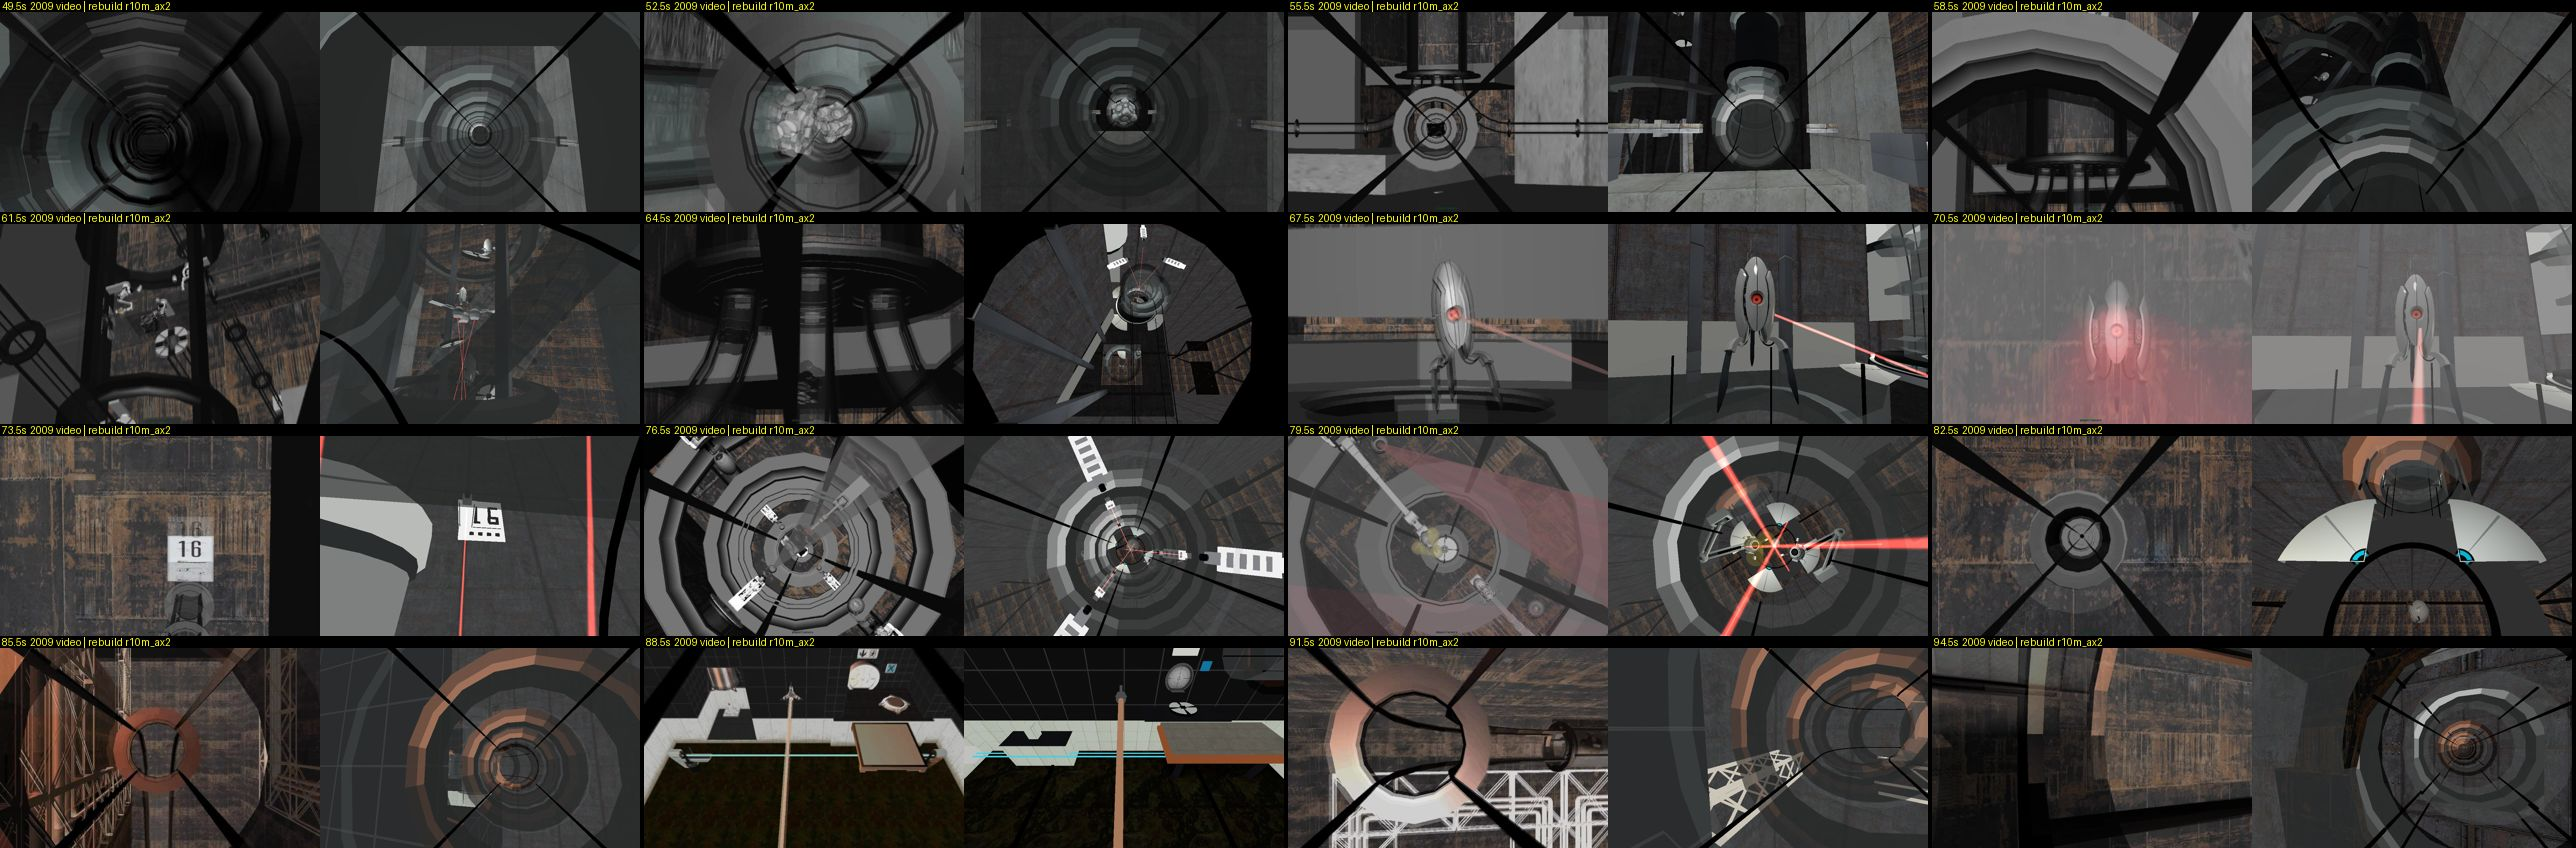
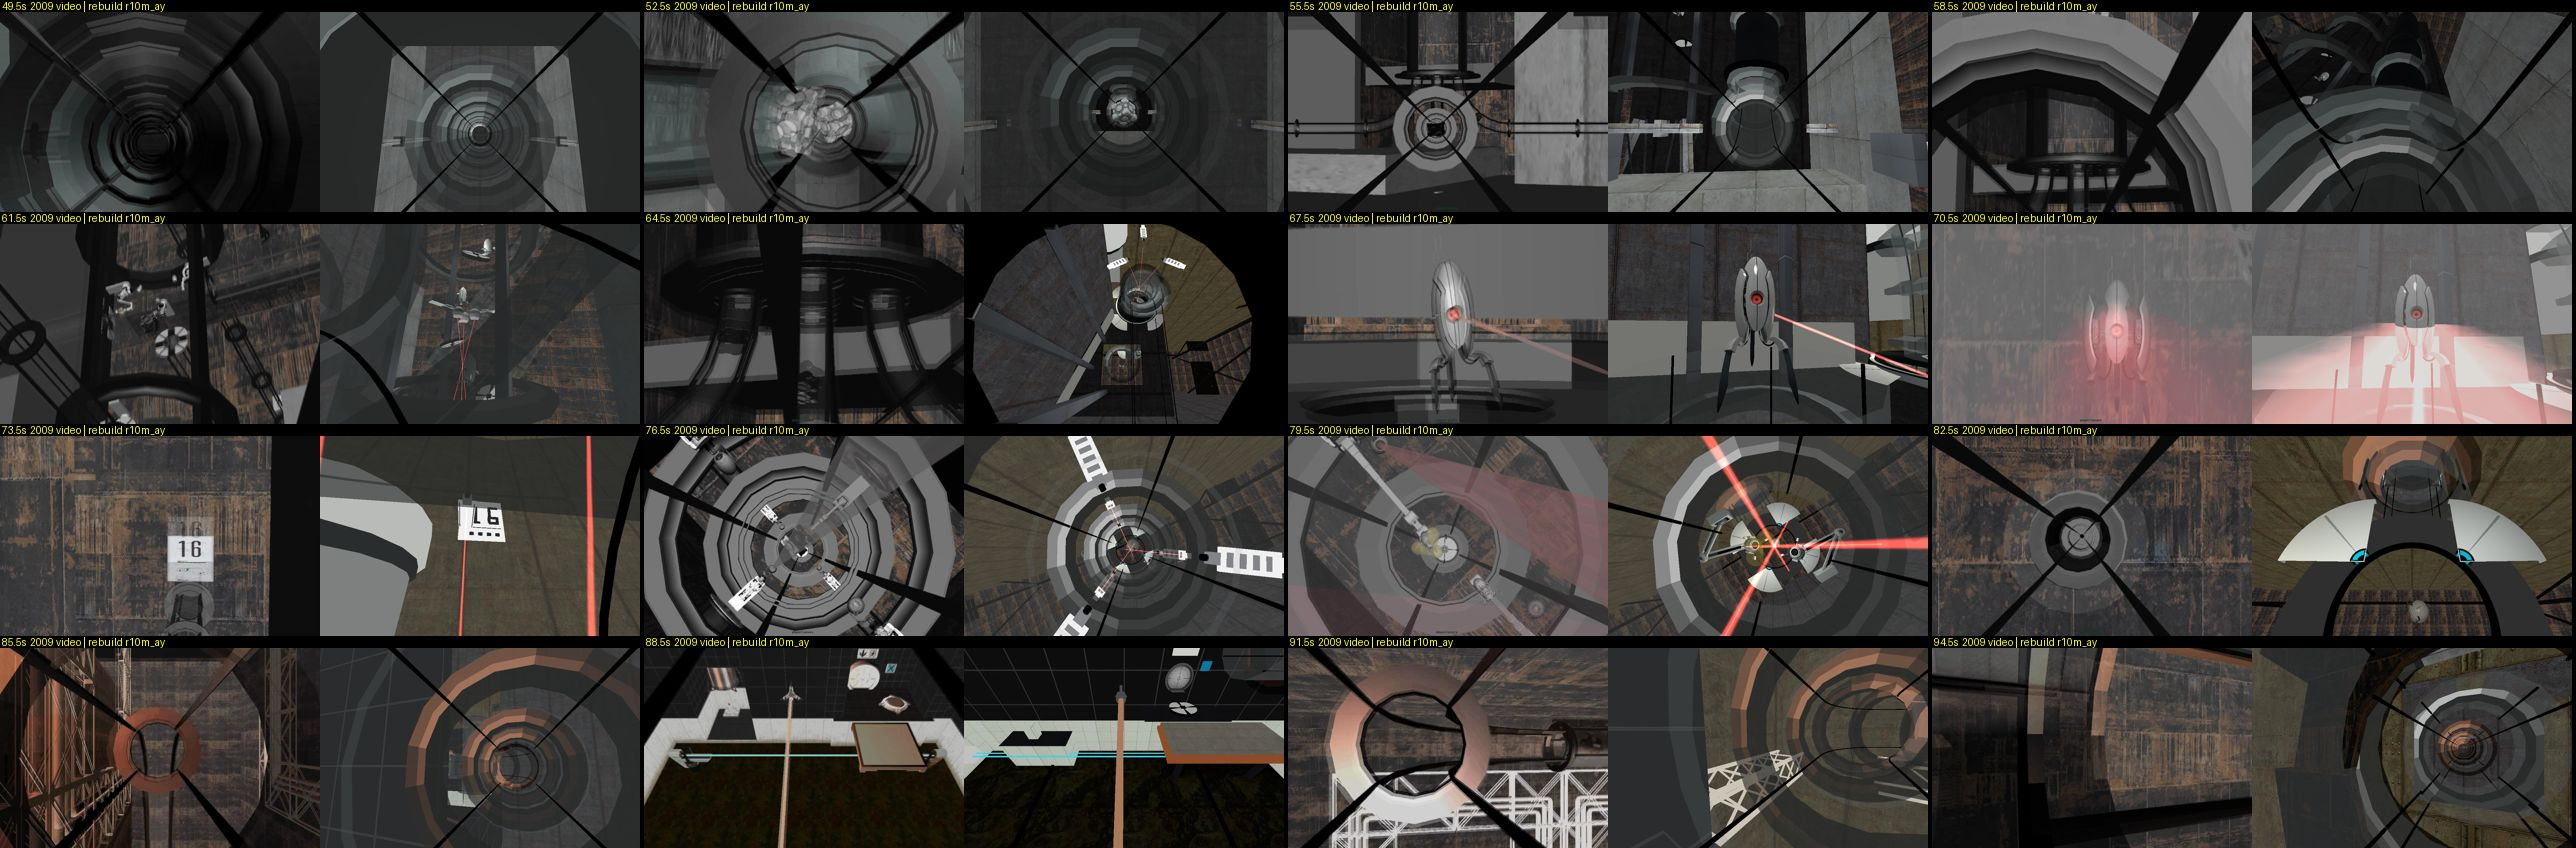
Corehub intro rebuild (corehub_r10ay + director_r10ay)
Separated middle rooms, frontal walls, WIP surfaces, 60 fps test runs; see corehub/intro/README.md for per-scene scores.

Claude-Session: https://claude.ai/code/session_014AMsH7FRGKMAJSenMpS1Ga

Changed region(s): [[0.8696, 0.3679, 1.0, 0.5212]]

diff --git a/corehub/intro/tools/patch_director.py b/corehub/intro/tools/patch_director.py
@@ -26,7 +26,7 @@ edits = {  # time: (pitch, yaw, roll)
     # the floor ring (65-65.6 s), and watches the turret rise toward the lens (66-67 s)
     63.25: (25.0, 10.0, 0.0), 63.5: (38.0, 5.0, 0.0), 63.75: (43.0, 4.0, 0.0), 64.0: (48.0, 3.0, 0.0), 64.25: (55.0, 2.0, 0.0), 64.5: (65.0, 0.0, 0.0),
     64.75: (75.0, 0.0, 0.0), 65.0: (85.0, 10.0, 0.0), 65.5: (88.0, 20.0, 0.0), 66.0: (85.0, 30.0, 0.0),
-    66.5: (45.0, 45.0, 0.0), 67.0: (0.0, 46.0, 0.0),
+    66.25: (55.0, 40.0, 0.0), 66.5: (12.0, 46.0, 0.0), 67.0: (0.0, 46.0, 0.0),   # r10ay: level with the rising turret by 66.5 s (video)
     # r10af: the video holds the turret front-on and centred through the lens glare (69.5-71.2 s), the camera rising
     # only slightly; it leaves for the "16" inlet in the last 0.8 s (see pos_x/pos_z)
     70.5: (-9.0, 63.0, 0.0), 71.0: (-8.0, 62.0, 0.0), 71.25: (-7.0, 40.0, 0.0), 71.5: (-8.0, 12.0, 0.0),
@@ -91,7 +91,7 @@ funnel = {86.0: (5770.0, 0.0, 280.0), 86.25: (5880.0, 80.0, 505.0), 86.5: (5950.
           87.0: (5952.0, 150.0, 320.0), 87.25: (5952.0, 180.0, 275.0), 87.5: (5952.0, 210.0, 256.0)}
 copper_x = [(84.2, 5240.0), (84.55, 5260.0), (85.0, 5330.0), (85.5, 5450.0), (85.75, 5600.0), (86.0, 5770.0)]   # r10am: the room west of the towers is dark; start at them
 pod_z = [(39.5, 640.0), (39.75, 660.0), (40.0, 680.0), (40.25, 700.0), (40.5, 720.0), (40.75, 745.0), (41.0, 770.0), (41.25, 810.0), (41.5, 880.0), (41.75, 1000.0)]
-shaft_z = [(77.0, 835.0), (78.0, 790.0), (79.0, 720.0), (79.5, 660.0), (80.0, 590.0), (80.5, 545.0), (81.0, 540.0), (81.5, 540.0), (82.0, 540.0), (82.25, 520.0), (82.5, 400.0)]   # r10ao: hover over the iris until 82.2 s, then drop through it
+shaft_z = [(77.0, 835.0), (78.0, 790.0), (79.0, 720.0), (79.5, 660.0), (80.0, 610.0), (80.5, 590.0), (81.0, 580.0), (81.5, 580.0), (82.0, 580.0), (82.25, 540.0), (82.5, 400.0)]   # r10az: hover higher over the iris (video 81-82 s: the iris ~45% of the frame width)   # r10ao: hover over the iris until 82.2 s, then drop through it
 # r10ah: sludge chamber (87-90 s) -- the video is lower and closer over the walkways than the tube (z 256)
 sludge_z = {86.5: 246.0, 86.75: 226.0, 87.0: 206.0, 87.25: 192.0, 87.5: 186.0, 87.75: 186.0, 88.0: 186.0, 88.25: 186.0,
             88.5: 186.0, 88.75: 186.0, 89.0: 186.0, 89.25: 186.0, 89.5: 188.0, 89.75: 196.0, 90.0: 210.0, 90.25: 232.0, 90.5: 250.0}
@@ -154,15 +154,16 @@ cube_new = 'for(local i=0;i<4;i++)MoveProp("intro_cube_"+i,(t<54.9&&t>=51.5)?Vec
 assert txt.count(cube_old) == 1
 txt = txt.replace(cube_old, cube_new)
 txt = txt.replace('cutTab <- [', 'r10CubeX <- [[51,3420],[52,3394],[52.5,3437],[52.54,3437],[52.56,3295],[53.0,3339],[53.5,3386],[53.83,3418],[55.5,3480]];' + chr(10) + 'cutTab <- [', 1)
-txt = txt.replace('cutTab <- [', 'r10TurretZ <- [[66.15,820],[66.9,1010]];r10GlowPath <- [[114.0,Vector(8425,61,900)],[114.5,Vector(8454,28,740)],[115.1,Vector(8448,0,600)],[116.4,Vector(8436,-24,640)]];' + chr(10) + 'cutTab <- [', 1)
+txt = txt.replace('cutTab <- [', 'r10TurretZ <- [[65.9,820],[66.45,1010]];r10GlowPath <- [[114.0,Vector(8425,61,900)],[114.5,Vector(8454,28,740)],[115.1,Vector(8448,0,600)],[116.4,Vector(8436,-24,640)]];' + chr(10) + 'cutTab <- [', 1)
 # turret laser in the lens (69.3-71.3 s): the video washes the frame pink; a second env_fade tints the screen red
 txt = txt.replace('cutTab <- [', 'r10Red <- [[69.2,0],[69.5,80],[70.2,104],[70.9,104],[71.3,0]];r10RedAlpha <- 0;' + chr(10) +
     'function SetRedHaze(t){local a=(t>=69.2&&t<71.3)?Lerp1(r10Red,t).tointeger():0;if(a==r10RedAlpha)return;' +
     'local f=Entities.FindByName(null,"r10_red_fade");if(f==null)return;f.__KeyValueFromString("renderamt",""+a);' +
-    'EntFire("r10_red_fade","Fade","",0);r10RedAlpha=a;}' + chr(10) + 'cutTab <- [', 1)
+    'EntFire("r10_red_fade","Fade","",0);r10RedAlpha=a;}' + chr(10) +
+    'r10GlowOn <- false;function SetLensGlow(t){local g=(t>=69.4&&t<71.3);if(g==r10GlowOn)return;EntFire("laser_turret_glow",g?"TurnOn":"TurnOff","",0);r10GlowOn=g;}' + chr(10) + 'cutTab <- [', 1)
 anchor2 = '    SetPursuitShaft(t);'
 assert txt.count(anchor2) == 1
-txt = txt.replace(anchor2, '    SetRedHaze(t);' + chr(10) + '    MoveProp("intro_turret",Vector(4575,58,Lerp1(r10TurretZ,t)));' + chr(10) + '    {local g=(t>=114.0&&t<116.4);local p=Vector(0,0,-3000);if(g){p=r10GlowPath[0][1];for(local i=0;i<r10GlowPath.len()-1;i++)if(t>=r10GlowPath[i][0]&&t<=r10GlowPath[i+1][0]){local f=(t-r10GlowPath[i][0])/(r10GlowPath[i+1][0]-r10GlowPath[i][0]);p=r10GlowPath[i][1]+(r10GlowPath[i+1][1]-r10GlowPath[i][1])*f;break;};};MoveProp("r10_core_glow",p);}' + chr(10) + '    MoveProp("intro_factory_cube",(t>=99.8 && t<101.9)?Vector(Lerp1(r10LabCube,t),0,256):Vector(0,0,-3000));' + chr(10) + anchor2)
+txt = txt.replace(anchor2, '    SetRedHaze(t);' + chr(10) + '    SetLensGlow(t);' + chr(10) + '    MoveProp("intro_turret",Vector(4575,58,Lerp1(r10TurretZ,t)));' + chr(10) + '    {local g=(t>=114.0&&t<116.4);local p=Vector(0,0,-3000);if(g){p=r10GlowPath[0][1];for(local i=0;i<r10GlowPath.len()-1;i++)if(t>=r10GlowPath[i][0]&&t<=r10GlowPath[i+1][0]){local f=(t-r10GlowPath[i][0])/(r10GlowPath[i+1][0]-r10GlowPath[i][0]);p=r10GlowPath[i][1]+(r10GlowPath[i+1][1]-r10GlowPath[i][1])*f;break;};};MoveProp("r10_core_glow",p);}' + chr(10) + '    MoveProp("intro_factory_cube",(t>=99.8 && t<101.9)?Vector(Lerp1(r10LabCube,t),0,256):Vector(0,0,-3000));' + chr(10) + anchor2)
 exp_old = 'local exposure=P41_Lerp1([[0,0.58],[22.6,0.58],[23.1,1.0],[33,1.0]],t);'
 exp_new = 'local exposure=P41_Lerp1([[0,0.93],[9.6,0.93],[10.3,0.40],[11.6,0.40],[12.4,0.75],[21.2,0.75],[21.7,0.35],[22.05,0.35],[22.35,0.93],[33,0.93]],t);'   # r10ar: bright again as the camera looks up at the iris (22.3 s)
 assert txt.count(exp_old) == 1
@@ -191,7 +192,8 @@ drop_new = ('{local p=Vector(0,0,-3000);if(t>=44.0&&t<47.6){for(local i=0;i<r10D
             '{local f=(t-r10DropPath[i][0])/(r10DropPath[i+1][0]-r10DropPath[i][0]);p=r10DropPath[i][1]+(r10DropPath[i+1][1]-r10DropPath[i][1])*f;break;};};'
             'MoveProp("intro_drop",p);MoveProp("r10_tube_end",(t<48.85)?Vector(2812,0,1152):Vector(0,0,-3000));'
             'MoveProp("r10_tw_column",(t<58.58)?Vector(3754,0,1272):Vector(0,0,-3000));MoveProp("r10_tw_backwall",(t<58.58)?Vector(0,0,0):Vector(0,0,-4000));'
-            'MoveProp("r10_funnel_lo1",(t<86.95)?Vector(5952,150,255):Vector(0,0,-3000));MoveProp("r10_funnel_lo2",(t<86.95)?Vector(5952,150,170):Vector(0,0,-3000));}')
+            'MoveProp("r10_funnel_lo1",(t<86.95)?Vector(5952,150,255):Vector(0,0,-3000));MoveProp("r10_funnel_lo2",(t<86.95)?Vector(5952,150,170):Vector(0,0,-3000));'
+            '{local h=(t>=102.8||t<99.0);MoveProp("r10_lab_tur_0",h?Vector(7774.4,-183.4,206.8):Vector(0,0,-3000));MoveProp("r10_lab_tur_1",h?Vector(7854.2,-162.0,206.8):Vector(0,0,-3000));MoveProp("r10_lab_tur_2",h?Vector(7909.8,-116.5,206.8):Vector(0,0,-3000));}}')
 assert txt.count(drop_old) == 1
 txt = txt.replace(drop_old, drop_new)
 txt = txt.replace('cutTab <- [', 'r10DropPath <- [[44.0,Vector(2300,-12,1142)],[45.0,Vector(2470,-12,1142)],[46.0,Vector(2625,-12,1142)],[46.5,Vector(2695,-12,1142)],[47.0,Vector(2752,-12,1142)],[47.2,Vector(2760,-52,1146)],[47.6,Vector(2760,-270,1150)]];' + chr(10) + 'cutTab <- [', 1)

diff --git a/corehub/intro/tools/patch_r10.py b/corehub/intro/tools/patch_r10.py
@@ -732,6 +732,41 @@ for e in v.entities:
         if (abs(o.x - 6767) < 2 or abs(o.x - 6818.3) < 2) and abs(o.y) < 2 and abs(o.z - 256) < 2:
             e['model'] = 'models/corehub_intro/transport_ring_white.mdl'; e['skin'] = '0'; cf += 1
 print('cream collar faces/props', cf)
+# ---------- r10ay: turret glare and warm rust walls ----------
+# the video's lens glare (69.5-71.2 s) is a wide soft pink glow from the turret's eye down to the bottom of the frame:
+# a second, wide and faint beam on the laser's own endpoints, switched on by the director for the glare only
+v.create_ent('env_beam', targetname='laser_turret_glow', LightningStart='laser_turret_a', LightningEnd='laser_turret_b',
+             BoltWidth='26', NoiseAmplitude='0', renderamt='70', rendercolor='255 135 130', texture='sprites/laserbeam.spr',
+             spawnflags='0', life='0', damage='0', origin='4576 54 1159', TextureScroll='0', framerate='0', framestart='0', HDRColorScale='1.0')
+# the "16" wall and the gallery read warm brown rust in the video; the same texture showed its grey panels there
+RUST_WARM = unlit('rust_warm', 'metal/metalwall_bts_001b', '1.25 0.95 0.70')
+rw = 0
+for e in [v.spawn] + list(v.entities):
+    for so in e.solids:
+        lo, hi = so.get_bbox()
+        wall16 = abs(lo.x - 4980) < 1 and abs(hi.x - 5012) < 1
+        gal = lo.x >= 6330 and hi.x <= 6815 and lo.y >= -1030 and hi.y <= 1160
+        for f in so.sides:
+            if f.mat.lower() == 'corehub_intro/r10/rust' and ((wall16 and f.normal().x > 0.5) or gal):
+                f.mat = RUST_WARM; rw += 1
+print('warm rust faces', rw)
+# ---------- r10az: lab (100-103 s) ----------
+# the video's tube view of the lab shows black tiles and a pipe on the right until the camera turns at 103 s; the three
+# hanging turrets only come into view then. They get names so the director can bring them in at 102.8 s.
+ht = 0
+for e in v.entities:
+    if e['classname'] == 'prop_dynamic_override' and e['model'] == 'models/props_backstage/vacum_hover.mdl':
+        o = Vec.from_str(e['origin'])
+        if 7700 < o.x < 7950 and -200 < o.y < -100 and abs(o.z - 206.8) < 1:
+            e['targetname'] = f'r10_lab_tur_{ht}'; ht += 1
+print('lab hanging turrets named', ht)
+# ---------- r10ba: incinerator approach (110-114 s) ----------
+# the video looks down the shaft at a white iris with dark rings round it; the furnace's orange top showed round the
+# iris from 110 s. A dark frame just above it (open in the middle for the camera and the falling parts) hides it until
+# the camera drops through at 114.25 s.
+for lo, hi in (((8188, -260, 1300), (8708, -75, 1306)), ((8188, 75, 1300), (8708, 260, 1306)),
+               ((8188, -75, 1300), (8373, 75, 1306)), ((8523, -75, 1300), (8708, 75, 1306))):
+    box(lo, hi, TUNNEL, world=False)
 dst = R10 / 'build' / (NAME + '.vmf')
 v.export(dst.open('w'), inc_version=False)
 print('wrote', dst, len(added), 'boxes')

diff --git a/corehub/intro/README.md b/corehub/intro/README.md
@@ -38,7 +38,7 @@ r10 is built on top of the newest pursuit9 map (capsule-follow v50: walkable ope
 
 ## Scores (1–10, against the 2009 video; ending blink/black not scored)
 
-Published build: `corehub_r10ax` + `director_r10ax` (outputs/Corehub-Intro). Test run: `videos/r10m_ax2_side.mp4`.
+Published build: `corehub_r10ay` + `director_r10ay` (outputs/Corehub-Intro). Test run: `videos/r10m_ay_side.mp4`.
 
 | # | Scene | Time (s) | v50 base | r10 now | Main remaining differences |
 |---|---|---|---|---|---|
